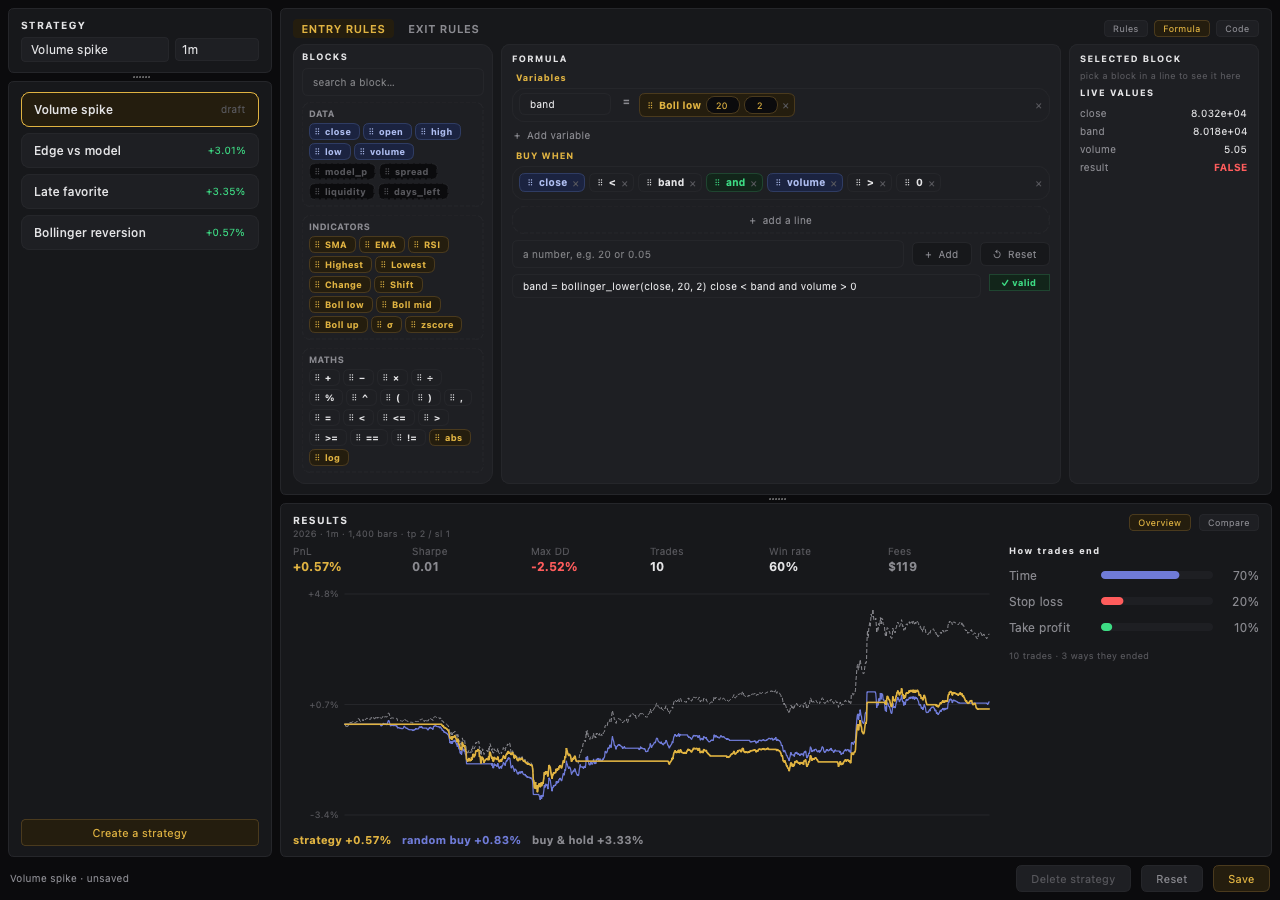
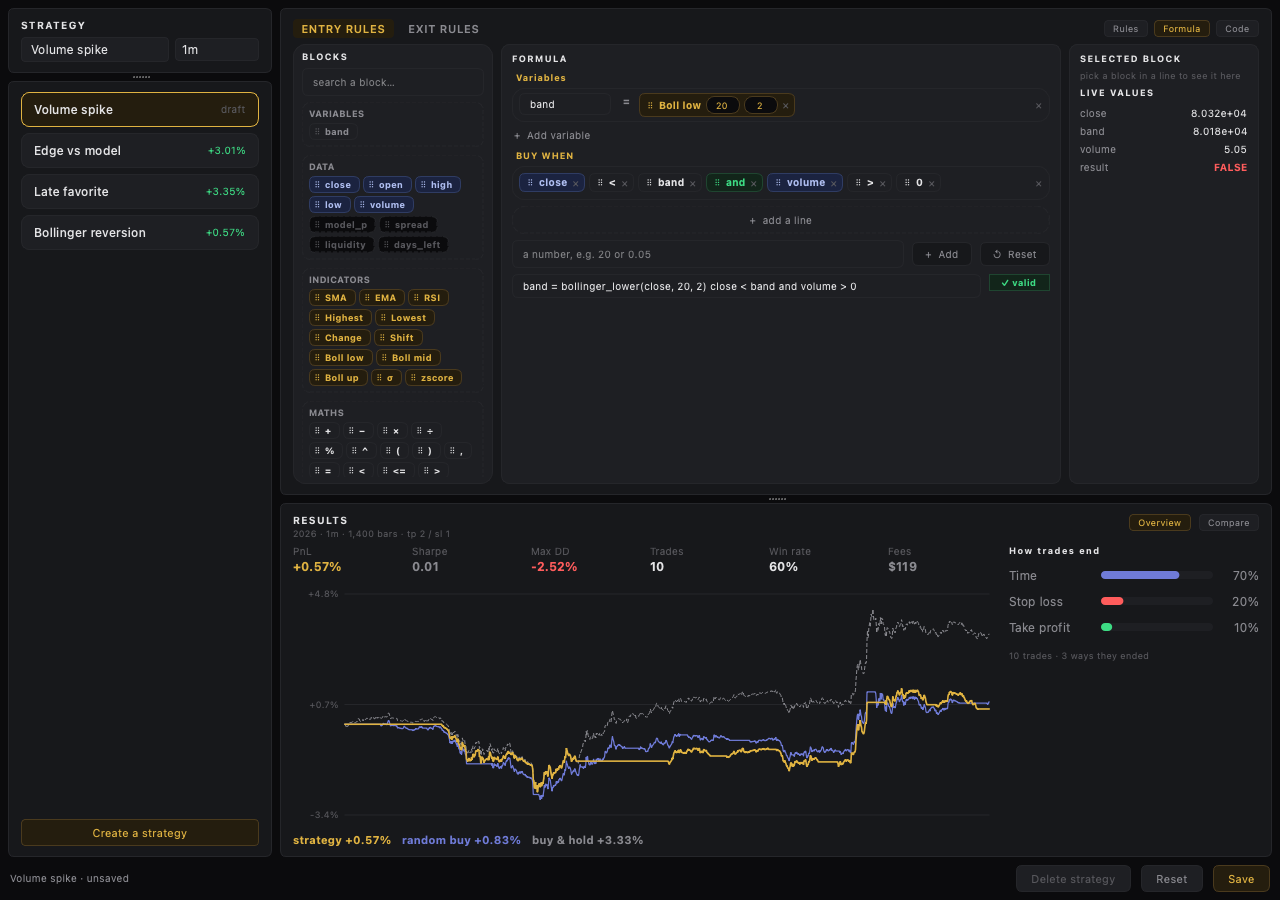
List the rule's own names in a Variables group in the Blocks palette
The names a formula defines now appear as draggable blocks under a
Variables caption, above Data / Indicators / Maths / Logic, so a named
series can be dropped into the condition like any other block. The group
stays hidden until something is named, and updates as names change.

Changed region(s): [[0.2188, 0.1244, 0.375, 0.4667], [0.2812, 0.4667, 0.375, 0.4978], [0.25, 0.4978, 0.2812, 0.5289]]

diff --git a/src/lalala/formula_builder.py b/src/lalala/formula_builder.py
@@ -967,12 +967,65 @@ class FormulaBuilder(QWidget):
         column = QVBoxLayout(inner)
         column.setContentsMargins(0, 0, 0, 0)
         column.setSpacing(8)
+        # The names the rule defines, above the built-in kinds, so they can be
+        # dragged into the condition like any other block.
+        column.addWidget(self._variables_group(inner))
         for group, items in self.palette:
             column.addWidget(self._block_group(inner, group, items))
         column.addStretch(1)
         scroll.setWidget(inner)
         outer.addWidget(scroll, 1)
         return box
+
+    def _variables_group(self, parent: QWidget) -> QWidget:
+        """The Variables group: the names this rule defines, filled later."""
+        frame = QFrame(parent)
+        frame.setObjectName("blockGroup")
+        frame.setAttribute(Qt.WidgetAttribute.WA_StyledBackground, True)
+        layout = QVBoxLayout(frame)
+        layout.setContentsMargins(6, 5, 6, 6)
+        layout.setSpacing(4)
+        caption = QLabel("VARIABLES", frame)
+        caption.setObjectName("paletteTitle")
+        layout.addWidget(caption)
+        self.variables_holder = FlowHolder(frame, spacing=3)
+        layout.addWidget(self.variables_holder)
+        self.blocks["Variables"] = []
+        frame.setVisible(False)  # shown once something is named
+        self.variables_frame = frame
+        return frame
+
+    def _refresh_variables_blocks(self) -> None:
+        """Repopulate the Variables group with the rule's own names."""
+        holder = getattr(self, "variables_holder", None)
+        if holder is None:
+            return
+        for block in self.blocks.get("Variables", []):
+            holder.flow.removeWidget(block)
+            block.setParent(None)
+            block.deleteLater()
+        self.blocks["Variables"] = []
+        names = self.defined_names()
+        for name in names:
+            item = Item(name, (name,), "a name the rule defines")
+            block = PaletteBlock(item, holder)
+            block.setProperty("group", "name")
+            block.style().unpolish(block)
+            block.style().polish(block)
+            holder.flow.addWidget(block)
+            self.blocks["Variables"].append(block)
+        self.variables_frame.setVisible(bool(names))
+
+    def defined_names(self) -> list:
+        """The names the rule's variable lines define, in order."""
+        names: list[str] = []
+        for strip in self.strips:
+            for chip in strip.chips():
+                if isinstance(chip, NameChip):
+                    name = chip.token.strip()
+                    if name and name not in names:
+                        names.append(name)
+        return names
 
     def _block_group(self, parent: QWidget, title: str, items: tuple) -> QWidget:
         """One dashed group: its caption, then its blocks, wrapping."""
@@ -1608,6 +1661,7 @@ class FormulaBuilder(QWidget):
 
     def _refresh(self) -> None:
         self._refresh_warning()
+        self._refresh_variables_blocks()
         # The strips carry no caption of their own: the headings above them
         # say LET and BUY WHEN / EXIT WHEN.
         for strip in self.strips:

diff --git a/tests/test_formula_builder.py b/tests/test_formula_builder.py
@@ -97,9 +97,18 @@ def test_the_palette_is_rows_of_blocks_and_a_number_box(
         "Maths",
         "Logic",
     ]
-    # One row per group, each a horizontal run of blocks.
-    assert list(builder.blocks) == ["Data", "Indicators", "Maths", "Logic"]
+    # One row per group, each a horizontal run of blocks. Variables comes
+    # first, for the names the rule defines.
+    assert list(builder.blocks) == [
+        "Variables",
+        "Data",
+        "Indicators",
+        "Maths",
+        "Logic",
+    ]
     for title, blocks in builder.blocks.items():
+        if title == "Variables":
+            continue  # empty until a name is defined
         assert blocks, f"{title} has something to drag"
         for block in blocks:
             assert isinstance(block, PaletteBlock)
@@ -379,6 +388,25 @@ def test_add_variable_gives_a_name_field(
     assert strip.tokens()[0] == "band"
 
 
+def test_defined_names_join_the_variables_category(
+    app: QApplication, builder: FormulaBuilder
+) -> None:
+    # Nothing named: the group is not shown.
+    assert builder.variables_frame.isVisible() is False
+    assert builder.blocks["Variables"] == []
+    assert list(builder.blocks)[0] == "Variables"
+
+    builder.set_formula("z = zscore(close, 20)\nedge = volume - close\nz < 2 and edge > 0.08")
+    app.processEvents()
+
+    assert builder.defined_names() == ["z", "edge"]
+    assert [block.item.label for block in builder.blocks["Variables"]] == [
+        "z",
+        "edge",
+    ]
+    assert builder.variables_frame.isVisible() is True
+
+
 def test_the_lines_sit_under_let_and_buy_when(
     app: QApplication, builder: FormulaBuilder
 ) -> None:
@@ -611,8 +639,10 @@ def test_every_group_is_its_own_dashed_box(app: QApplication) -> None:
         for frame in builder.findChildren(QFrame)
         if frame.objectName() == "blockGroup"
     ]
-    assert len(groups) == len(PALETTES)
+    assert len(groups) == len(PALETTES) + 1  # the four kinds, plus Variables
     for frame in groups:
+        if frame is builder.variables_frame:
+            continue  # empty and hidden until something is named
         assert frame.findChildren(PaletteBlock)
     builder.close()
 

diff --git a/tests/test_builder.py b/tests/test_builder.py
@@ -451,7 +451,7 @@ def test_the_exit_tile_reads_the_trade_and_takes_no_indicators(
     assert "Indicators" in entry_groups
     assert "Indicators" not in exit_groups
     assert exit_groups == ["Trade", "Maths", "Logic"]
-    assert list(builder.exit.formula.blocks) == exit_groups
+    assert list(builder.exit.formula.blocks) == ["Variables"] + exit_groups
 
     labels = [block.item.label for block in builder.exit.formula.blocks["Trade"]]
     assert labels == ["price", "entry", "PNL", "TP", "SL", "bars"]

diff --git a/src/lalala/theme.py b/src/lalala/theme.py
@@ -173,7 +173,7 @@ QLabel#blockLabel {{
     color: {TEXT};
 }}
 /* A variable's name: a chip like any other, but you type in it. */
-#formulaChip[group="name"] {{
+#paletteBlock[group="name"], #formulaChip[group="name"] {{
     background-color: {PANEL_ALT};
     border: 1px solid {BORDER};
 }}

diff --git a/README.md b/README.md
@@ -446,6 +446,9 @@ The `Formula` tab is three columns, as in the mock. **Blocks** is the small
 left rail (200 px, fixed) — a search box over one dashed group per kind
 (`Data`, `Indicators`, `Maths`, `Logic` — boxes, not different colours, so the
 list reads as one surface), with **no scrollbar**: the wheel walks the list.
+A **`Variables`** group sits above them, listing the names the rule defines, so
+a named series can be dragged into the condition like any other block; it is
+hidden until something is named.
 The **Formula** takes the slack in the middle: the lines sit directly on the
 card — no scrollbox of their own, so all of them show at once and the page
 around the builder moves if a long rule needs more room — and the formula as
